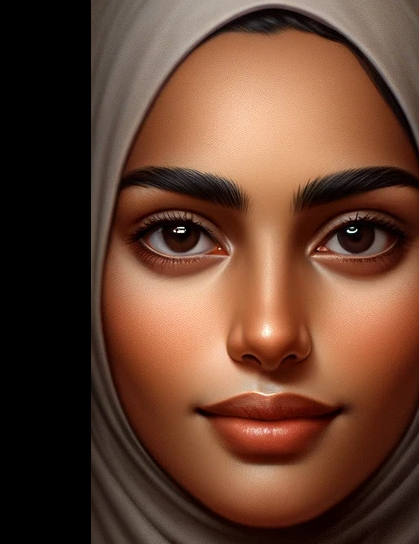
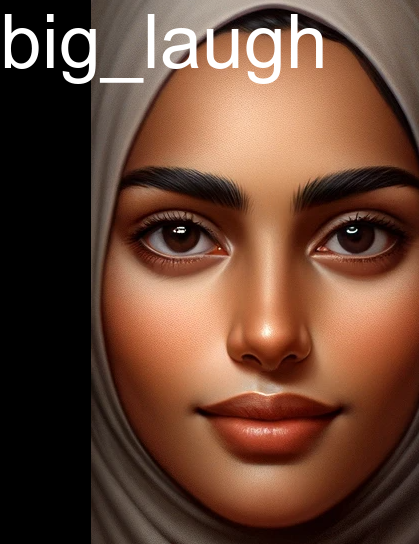
fixed full pipeline, added change_emotion_fake()

Changed region(s): [[0.3413, 0.0, 0.7757, 0.1562], [0.0, 0.0312, 0.3413, 0.1562]]

diff --git a/detect_face.py b/detect_face.py
@@ -48,43 +48,33 @@ def crop_face(img_path, boxes):
     #extension = img.filename.split('.')[-1]
     extension = os.path.splitext(img_path)[1][1:]
     crops = []
-    images_dir = []
     if boxes is not None:
         for j, box in enumerate(boxes):
             cropped_img = img.crop(box)
             if not os.path.exists(f"crop/{filename}"):
                 os.makedirs(f"crop/{filename}")
             cropped_img_dir = f"crop/{filename}/{filename}_cropped_{j}.{extension}"
-            images_dir.append(cropped_img_dir)
             cropped_img.save(cropped_img_dir)
             crops.append(cropped_img_dir)
 
     # return crops coordinate and saved crop image_dir
-    return crops, images_dir
+    return crops
 
 
-def stitch_bad(orig_img, crops, boxes):
-    orig_img = Image.open(orig_img)
-    if orig_img.mode != 'RGB':
-        orig_img = orig_img.convert('RGB')
-    boxes = boxes.tolist()
-    for i, box in enumerate(boxes):
-        cropped_img = Image.open(crops[i])
-        if cropped_img.mode != 'RGB':
-            cropped_img = cropped_img.convert('RGB')
-        orig_img.paste(cropped_img, box)
-    orig_img.save("images/stitched.jpg")
-    return "images/stitched.jpg"
-
-def stitch(image_path, images_dir, boxes):
+def stitch(image_path, crops_dir, boxes):
     orig_img = Image.open(image_path)
     for i, box in enumerate(boxes):
-        cropped_img = Image.open(f"{images_dir}/crop_{i}.jpg")
+        cropped_img = Image.open(crops_dir[i])
         # Ensure the box values are integers
-        box = tuple(int(b) for b in box)
+        box = tuple(int(j) for j in box)
+        # Resize the cropped image to match the box dimensions
+        if cropped_img.size != (box[2]-box[0], box[3]-box[1]):
+            cropped_img = cropped_img.resize((box[2]-box[0], box[3]-box[1]))
         orig_img.paste(cropped_img, box)
-    orig_img.save(f"{images_dir}/final.jpg")
-    return f"{images_dir}/final.jpg"
+    if orig_img.mode != 'RGB':
+        orig_img = orig_img.convert('RGB')
+    orig_img.save(f"{IMAGES_DIR}/final.jpg")
+    return f"{IMAGES_DIR}/final.jpg"
 
 # orig_img, boxes = detect_face("uploads\Crowd-of-Diverse-People_800x528.jpg")
 # print(boxes)

diff --git a/main.py b/main.py
@@ -1,5 +1,6 @@
-from change_face import change_face
+from change_face import change_emotion, change_emotion_fake
 from detect_face import detect_face, crop_face, stitch
+from mosaic import apply_mosaic
 from config import IMAGES_DIR, TEST_IMAGE
 from PIL import Image
 
@@ -12,14 +13,16 @@ def make_smile(image_path):
     boxes = detect_face(image_path)
     
     # create crops of each face, save them to /crop
-    _, images_dir_crops = crop_face(image_path, boxes)
+    crops_dir = crop_face(image_path, boxes)
     
     # change the emotion of each face
-    #for crop in images_dir_crops:
-        #change_emotion(crop, 0) # Uses API credits, beware
+    for crop in crops_dir:
+        #apply_mosaic(crop)
+        #change_emotion(crop, "big_laugh") # Uses API credits, beware. Replaces image in place.
+        change_emotion_fake(crop, "big_laugh") # Uses fake API. Paints text on face. Replaces image in place. (For testing purposes)
     
     # Stitch the faces back into the original image
-    final_image_dir = stitch(image_path, images_dir_crops, boxes)
+    final_image_dir = stitch(image_path, crops_dir, boxes)
     
     final_image = Image.open(final_image_dir)
     final_image.show()

diff --git a/mosaic.py b/mosaic.py
@@ -14,3 +14,9 @@ def apply_mosaic_section(image, x1, y1, x2, y2):
         for y in range(y1, y2, TILE_SIZE):
             apply_tile_average(image, x, y, TILE_SIZE)
     return image
+
+def apply_mosaic(image_path):
+    image = Image.open(image_path)
+    apply_mosaic_section(image, 0, 0, image.width, image.height)
+    image.save(image_path)
+    return image_path
